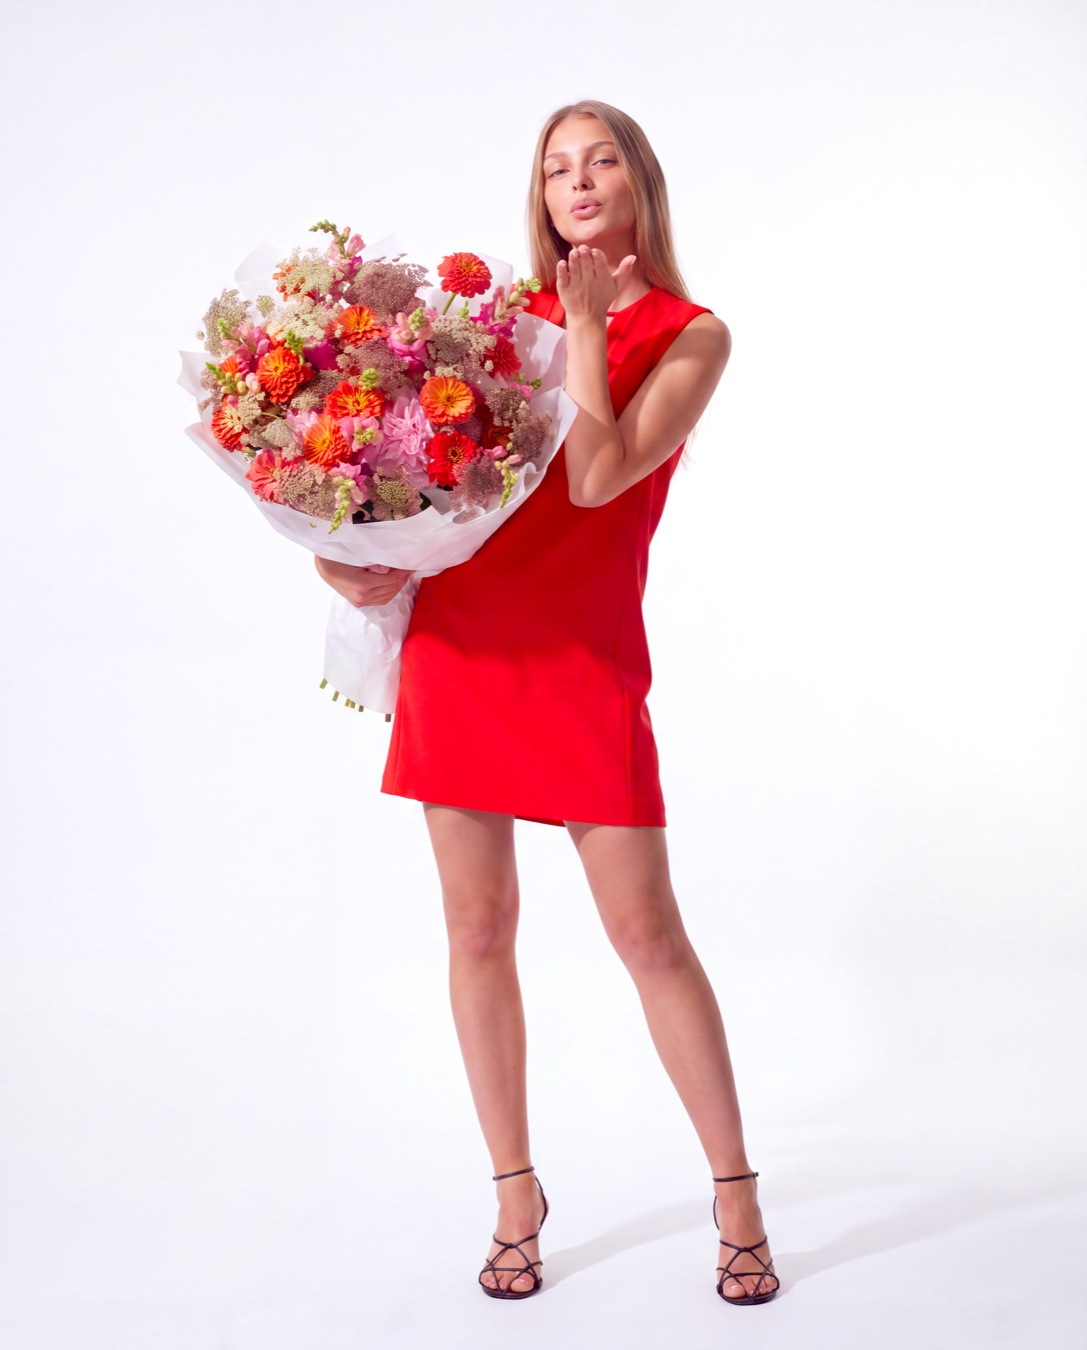
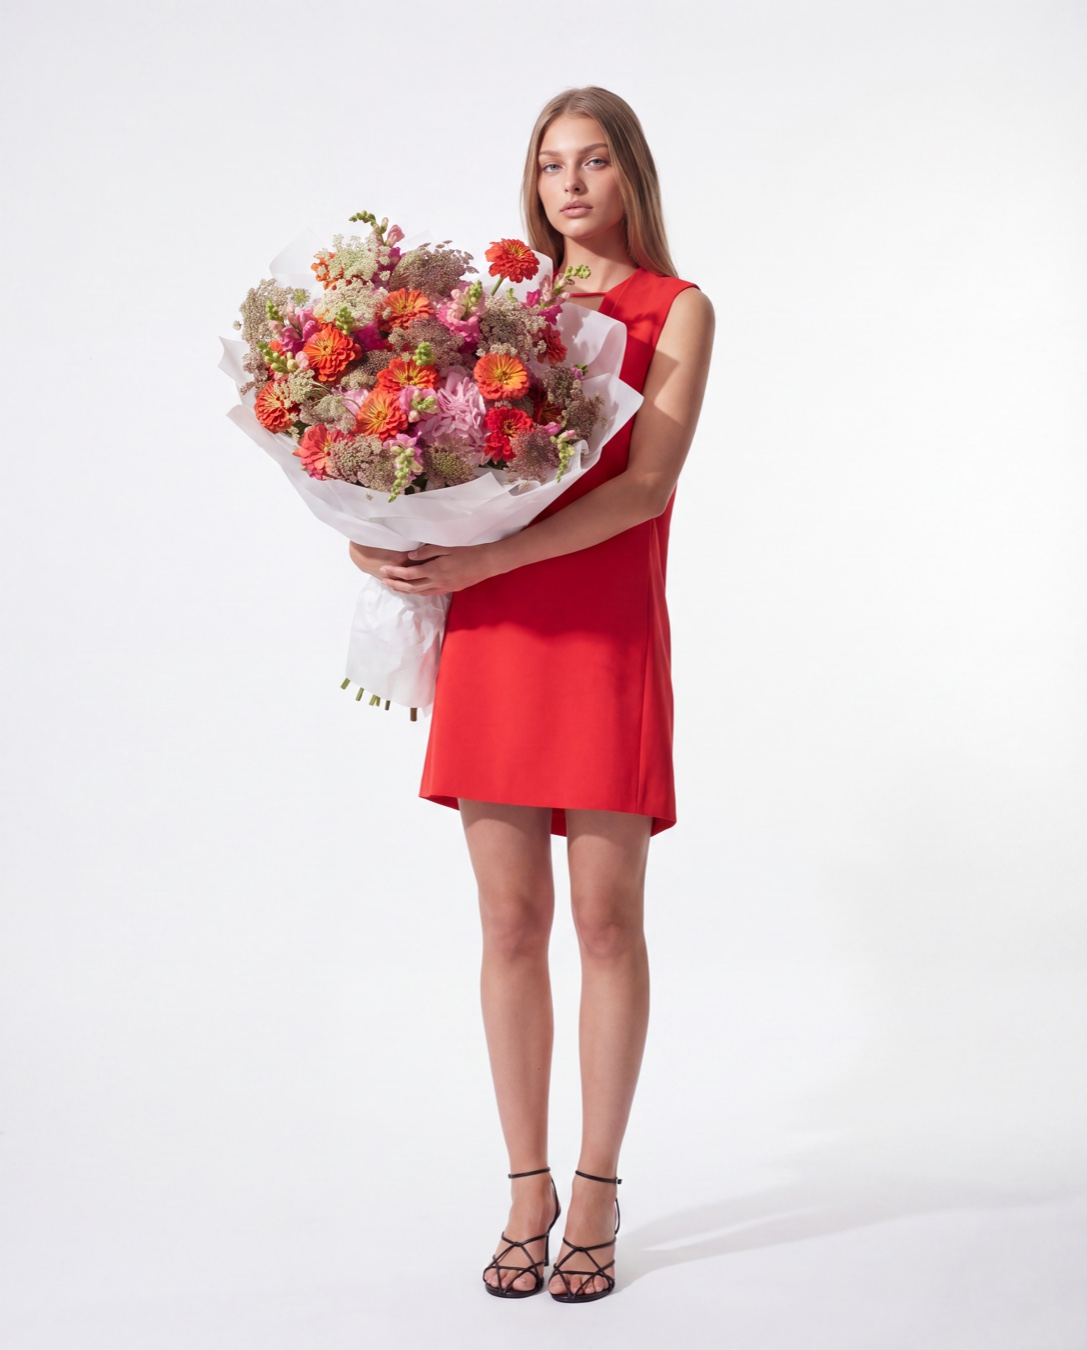
Шаг 06 разбора модели: два кадра с букетом вместо одного, цитата убрана

Changed region(s): [[0.1518, 0.0622, 0.7893, 0.9644]]

diff --git a/ai/razbory/model/index.html b/ai/razbory/model/index.html
@@ -226,13 +226,9 @@ h2{font-family:var(--disp);font-weight:800;text-transform:uppercase;letter-spaci
 .band .cap .body{grid-column:2;grid-row:1/span 2}
 .band .cap .body p{max-width:none}
 
-/* финал: кадр и правило крупно */
-.fin{display:grid;grid-template-columns:repeat(3,minmax(0,1fr));
-  gap:clamp(14px,2.2vw,30px);margin-top:clamp(30px,5vh,66px);align-items:start}
-.fin blockquote{grid-column:2/-1;font-family:var(--disp);font-weight:800;text-transform:uppercase;
-  letter-spacing:-.035em;line-height:.98;font-size:clamp(24px,3.6vw,54px);
-  align-self:center;max-width:16ch}
-.fin blockquote em{font-style:normal;color:var(--red-lite)}
+/* финал: пара кадров с букетами */
+.duo{display:grid;grid-template-columns:1fr 1fr;gap:clamp(14px,2.2vw,30px)}
+.duo img{width:100%;aspect-ratio:4/5;object-fit:cover}
 
 /* ─── результат ─── */
 .result{display:grid;grid-template-columns:minmax(0,1.1fr) minmax(0,1fr);gap:clamp(22px,4vw,64px);
@@ -314,8 +310,7 @@ h2{font-family:var(--disp);font-weight:800;text-transform:uppercase;letter-spaci
   .meter div:nth-child(odd){border-left:0;padding-left:0}
   .meter div:nth-child(-n+2){border-bottom:1px solid var(--line)}
   .split,.trap,.q{grid-template-columns:1fr;gap:clamp(10px,1.8vh,16px)}
-  .row3,.fin{grid-template-columns:1fr;gap:clamp(26px,4.4vh,40px)}
-  .fin blockquote{grid-column:1;font-size:clamp(22px,7.4vw,34px)}
+  .row3{grid-template-columns:1fr;gap:clamp(26px,4.4vh,40px)}
   .band .cap{grid-template-columns:1fr;gap:10px}
   .band .cap .body{grid-column:1;grid-row:auto}
   .result{grid-template-columns:1fr}
@@ -499,22 +494,24 @@ h2{font-family:var(--disp);font-weight:800;text-transform:uppercase;letter-spaci
     </figcaption>
   </figure>
 
-  <div class="fin">
-    <figure class="card">
-      <img src="../../img/razbory/model/5-buket.jpg" alt="Модель с букетом в полный рост" loading="lazy" decoding="async">
-      <figcaption class="cap">
-        <div class="n">06</div>
-        <h3>Добавляем букеты</h3>
+  <figure class="band">
+    <div class="duo">
+      <img src="../../img/razbory/model/5-buket.jpg" alt="Модель с букетом в полный рост — первый кадр серии" loading="lazy" decoding="async">
+      <img src="../../img/razbory/model/6-buket2.jpg" alt="Модель с тем же букетом — второй кадр серии" loading="lazy" decoding="async">
+    </div>
+    <figcaption class="cap">
+      <div class="n">06</div>
+      <h3>Добавляем букеты</h3>
+      <div class="body">
         <p>Только теперь начинается работа, ради которой всё затевалось: к готовой модели
-           добавляются букеты. Модель держит форму, образ не меняется, кадры складываются
-           в серию.</p>
+           добавляются букеты. Модель держит форму, образ не меняется — кадры складываются
+           в серию, хоть для карточек товара, хоть для соцсетей.</p>
         <p>Букет при этом остаётся вашим настоящим. Нейросеть меняет человека, свет
            и окружение — но не состав букета. Придуманный ею букет вы не соберёте,
            а покупатель придёт именно за ним.</p>
-      </figcaption>
-    </figure>
-    <blockquote>Человека можно создать,<br><em>товар — нельзя</em></blockquote>
-  </div>
+      </div>
+    </figcaption>
+  </figure>
 
 </section>
 
